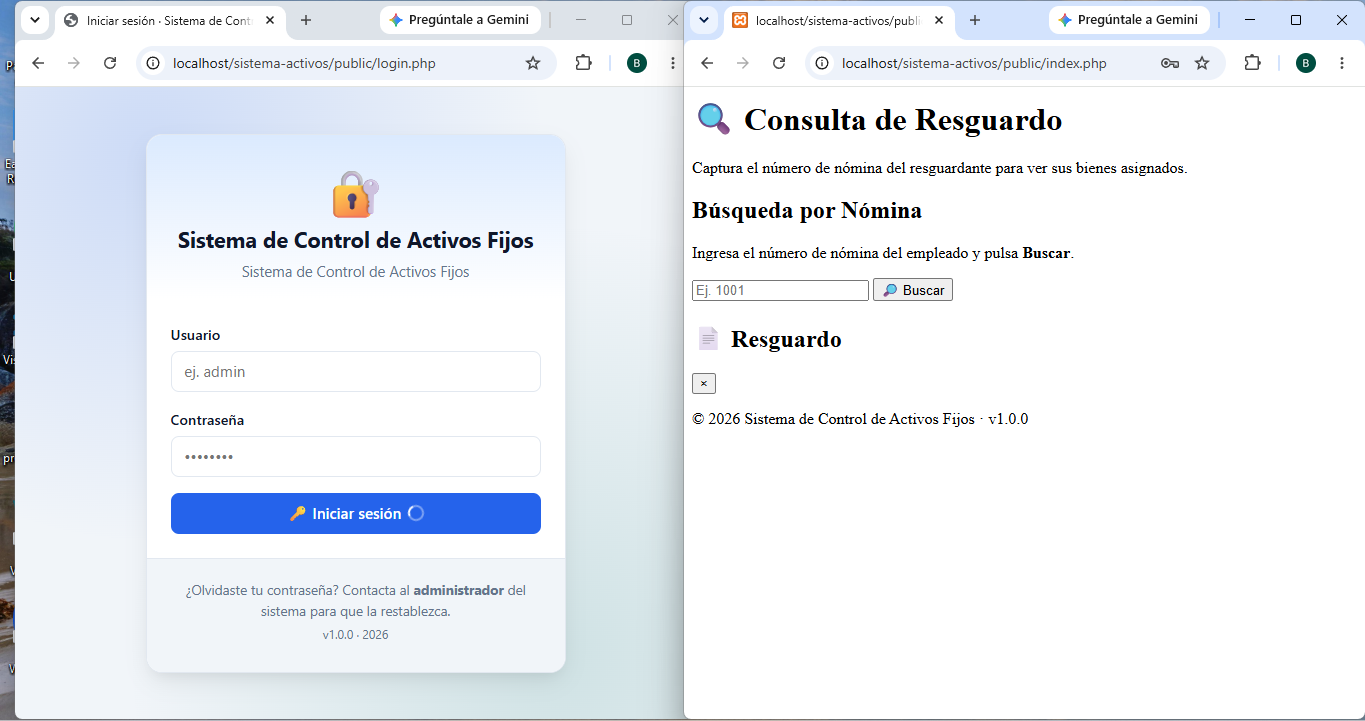
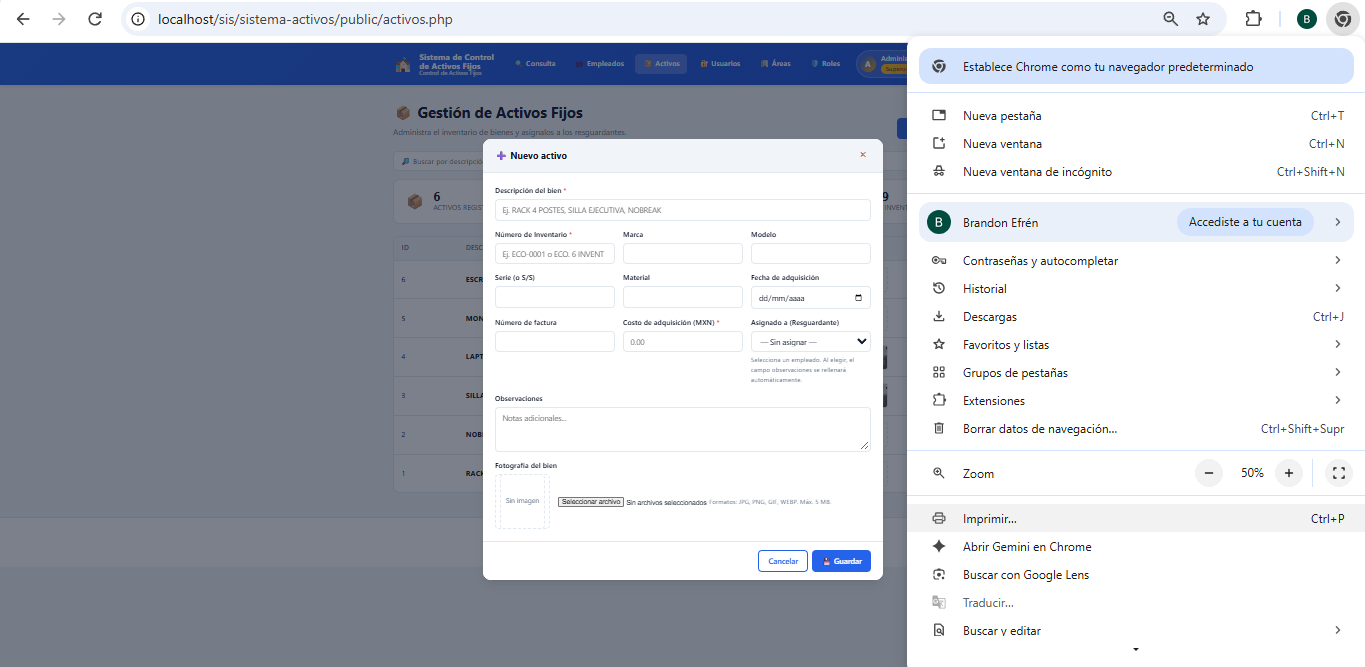
Barra de desplazamiento de nuevo activo

diff --git a/sistema-activos/public/activos.php b/sistema-activos/public/activos.php
@@ -43,11 +43,11 @@ require_once __DIR__ . '/../includes/header.php';
 <!-- Modal de edición -->
 <div class="modal-backdrop" id="activoModal">
     <div class="modal">
-        <div class="modal__header">
-            <h2 class="modal__title" id="modalTitle">➕ Nuevo activo</h2>
-            <button class="modal__close" onclick="App.closeModal('activoModal')">×</button>
-        </div>
-        <form id="activoForm" enctype="multipart/form-data">
+        <form id="activoForm" enctype="multipart/form-data" style="display: flex; flex-direction: column; height: 100%; overflow: hidden;">
+            <div class="modal__header">
+                <h2 class="modal__title" id="modalTitle">➕ Nuevo activo</h2>
+                <button type="button" class="modal__close" onclick="App.closeModal('activoModal')">×</button>
+            </div>
             <div class="modal__body">
                 <input type="hidden" name="id" value="">
                 <input type="hidden" name="ruta_imagen" value="">
